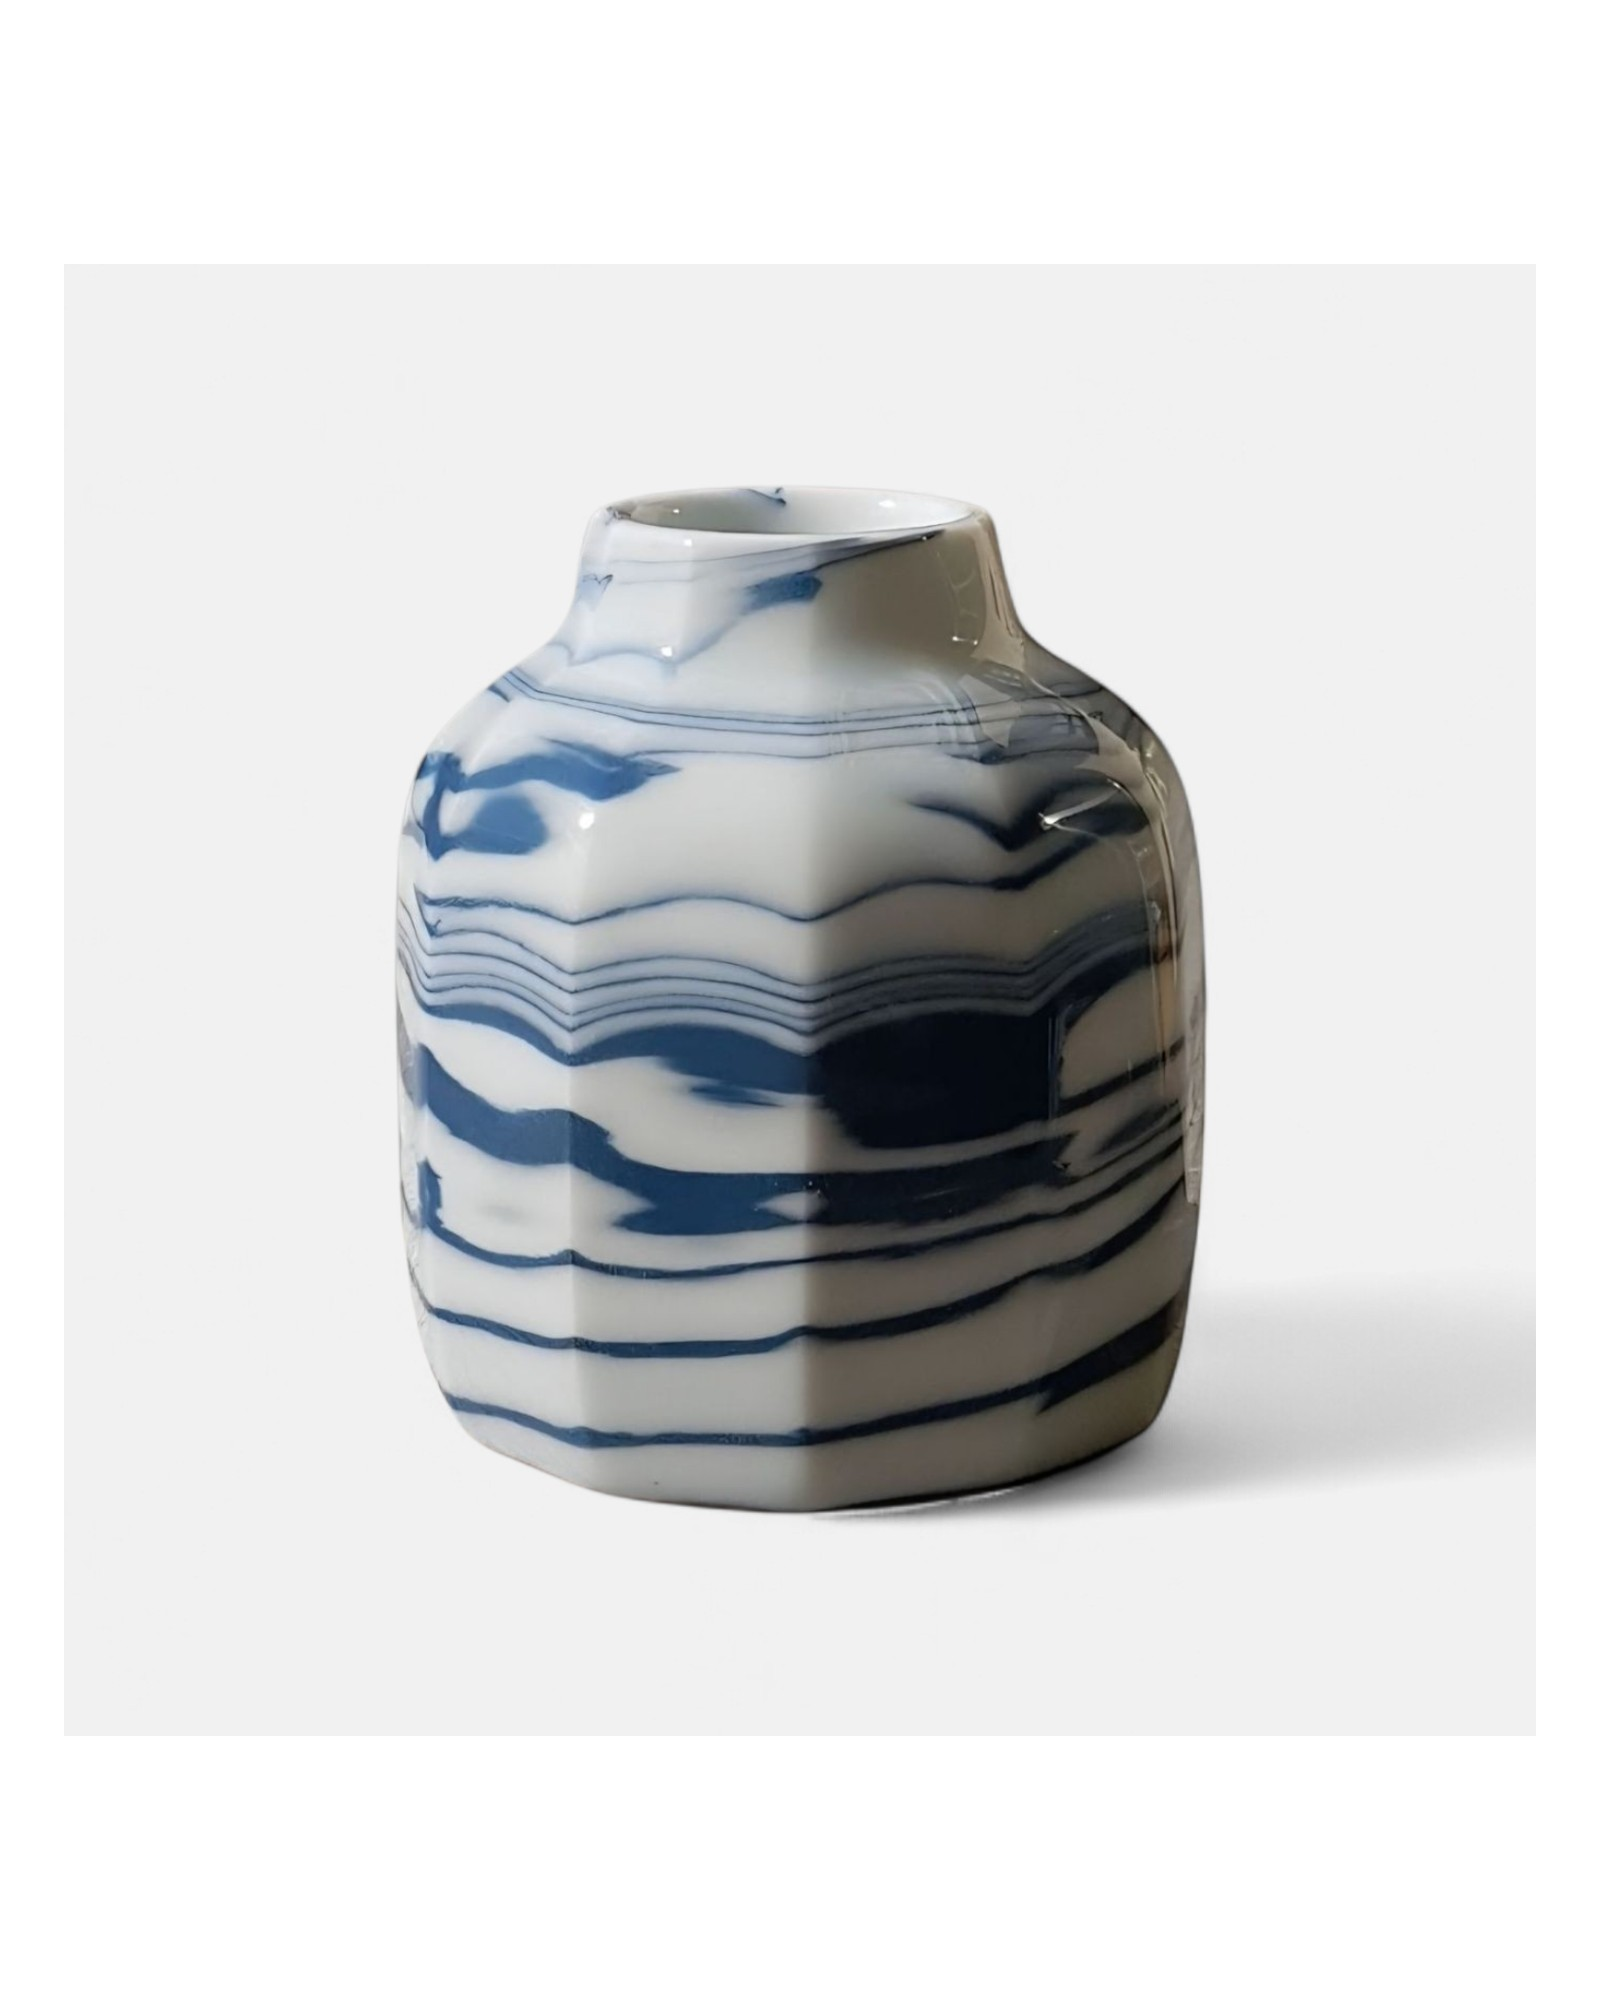
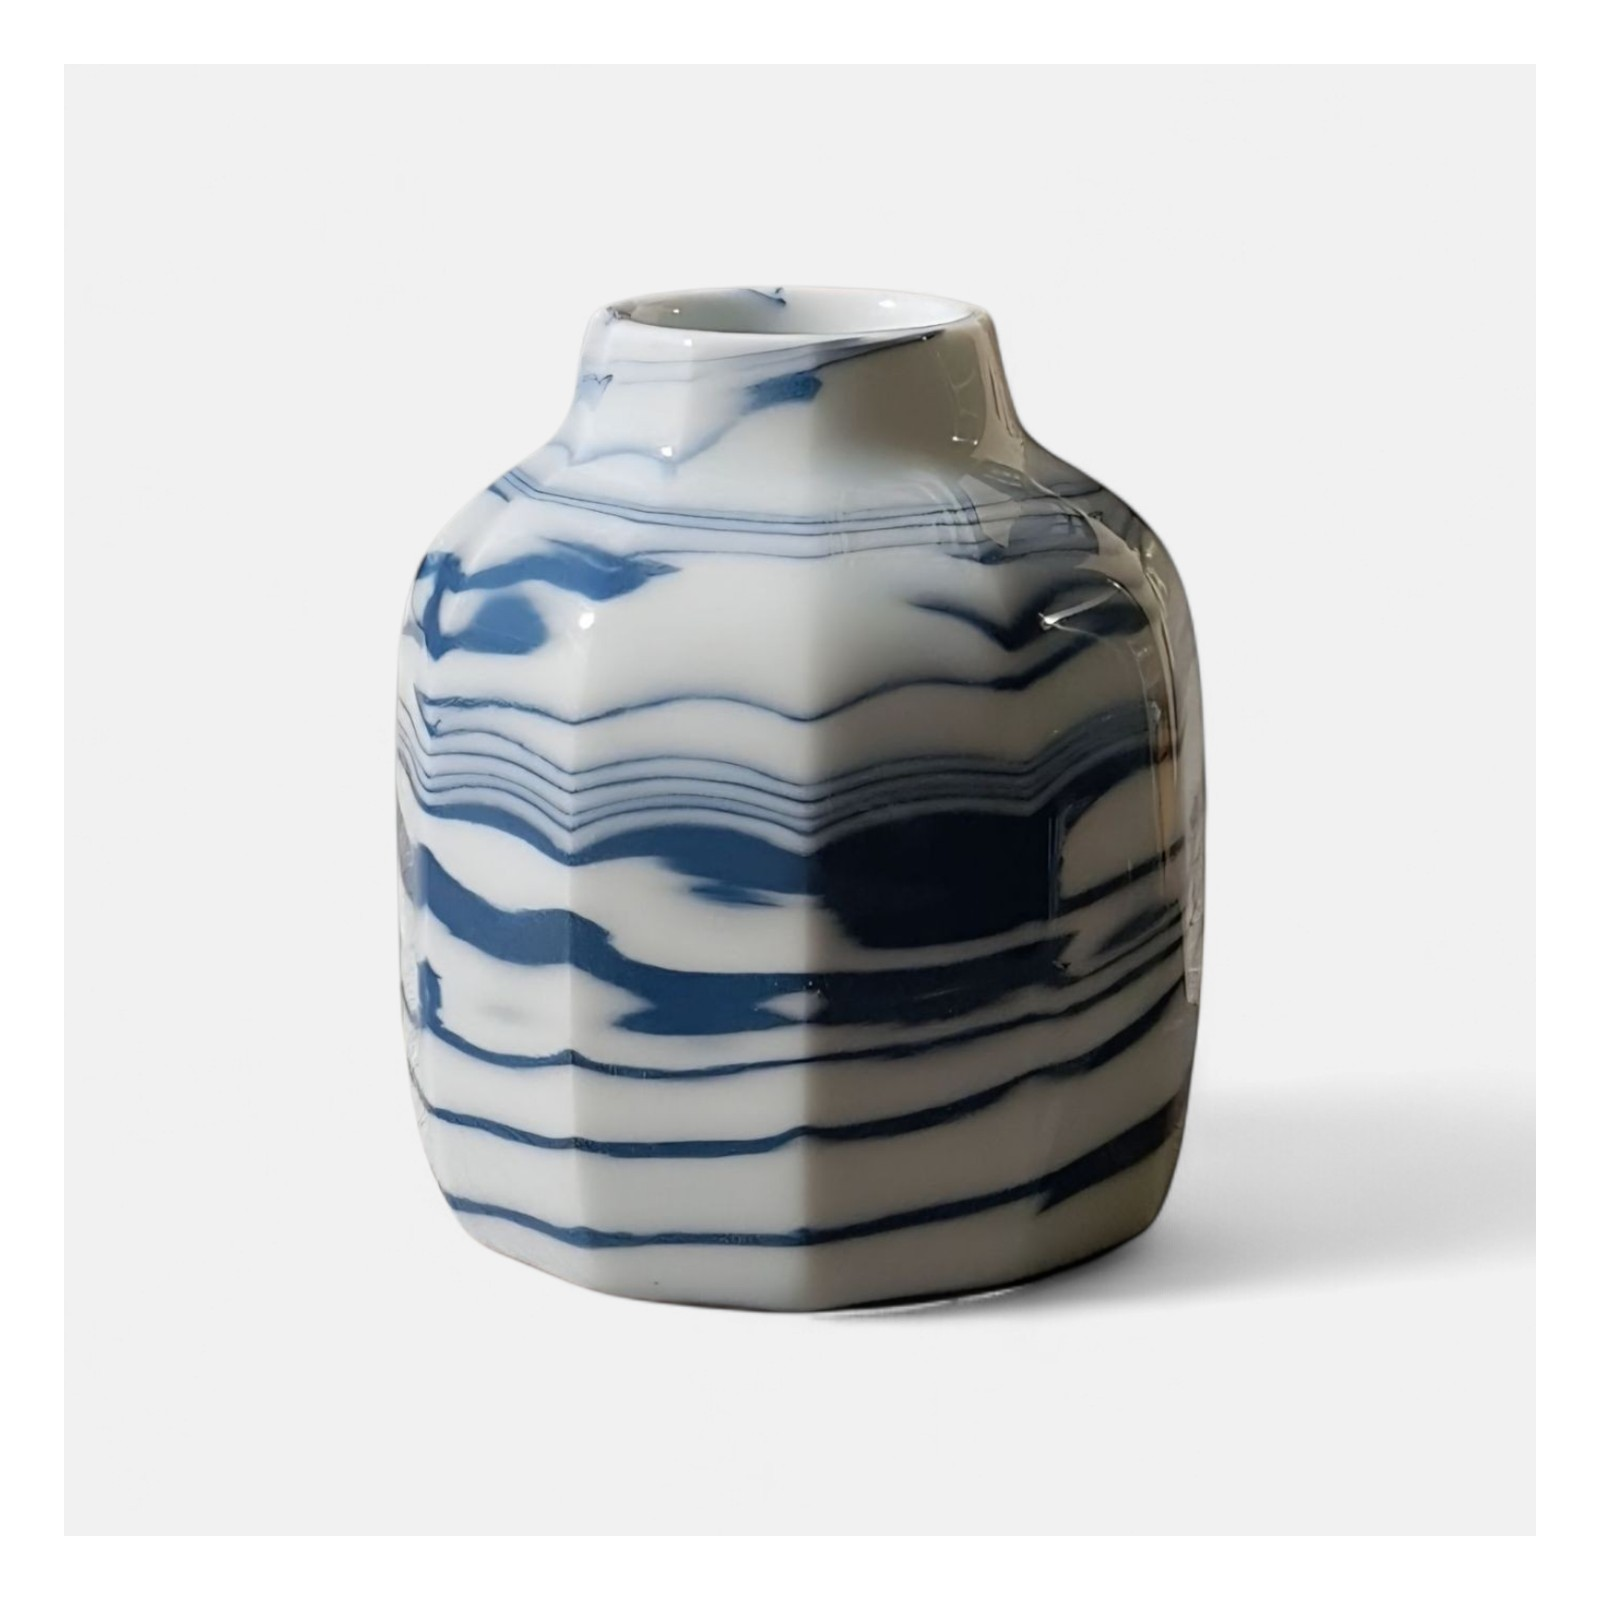
상품 사진을 정사각형(1:1)으로 통일
- 정규화 캔버스를 4:5(1600x2000)에서 1:1(1600x1600)로 변경
- 카드/리스트/상세페이지 이미지 컨테이너를 전부 aspect-square로 통일해
  더 이상 비율 불일치로 인한 크롭/여백 차이가 없도록 함

Changed region(s): [[0.25, 0.1562, 0.9688, 0.8438]]

diff --git a/src/components/CollectionListItem.tsx b/src/components/CollectionListItem.tsx
@@ -19,7 +19,7 @@ export default function CollectionListItem({ work }: { work: Work }) {
       }}
       className="group flex gap-4 sm:gap-6 py-5 border-b border-[var(--color-line)] focus-visible:outline focus-visible:outline-1 focus-visible:outline-offset-4 focus-visible:outline-[var(--color-ink)]"
     >
-      <div className="relative w-28 sm:w-40 aspect-[4/5] shrink-0 overflow-hidden bg-[var(--color-bg-soft)]">
+      <div className="relative w-28 sm:w-40 aspect-square shrink-0 overflow-hidden bg-[var(--color-bg-soft)]">
         <WorkImage
           paletteIndex={work.paletteIndex}
           title={work.title}

diff --git a/src/components/WorkCard.tsx b/src/components/WorkCard.tsx
@@ -21,7 +21,7 @@ export default function WorkCard({ work }: { work: Work }) {
       }}
       className="group block cursor-pointer focus-visible:outline focus-visible:outline-1 focus-visible:outline-offset-4 focus-visible:outline-[var(--color-ink)]"
     >
-      <div className="relative aspect-[4/5] w-full overflow-hidden bg-[var(--color-bg-soft)]">
+      <div className="relative aspect-square w-full overflow-hidden bg-[var(--color-bg-soft)]">
         <WorkImage
           paletteIndex={work.paletteIndex}
           title={work.title}

diff --git a/src/app/page.tsx b/src/app/page.tsx
@@ -65,7 +65,7 @@ export default function Home() {
       </section>
 
       <section className="px-5 sm:px-8 py-16 max-w-5xl mx-auto border-t border-[var(--color-line)] grid sm:grid-cols-2 gap-8 sm:gap-12 items-center">
-        <div className="relative aspect-[4/5] sm:aspect-square overflow-hidden order-2 sm:order-1">
+        <div className="relative aspect-square overflow-hidden order-2 sm:order-1">
           <WorkImage
             paletteIndex={objectsWork.paletteIndex}
             title={objectsWork.title}

diff --git a/src/app/works/[slug]/page.tsx b/src/app/works/[slug]/page.tsx
@@ -70,7 +70,7 @@ export default async function WorkDetailPage({
         <p className="label-caption shrink-0 ml-4">2026</p>
       </div>
 
-      <div className="relative mt-5 aspect-[4/5] sm:aspect-[16/10] overflow-hidden">
+      <div className="relative mt-5 aspect-square overflow-hidden">
         <WorkImage
           paletteIndex={work.paletteIndex}
           title={work.title}
